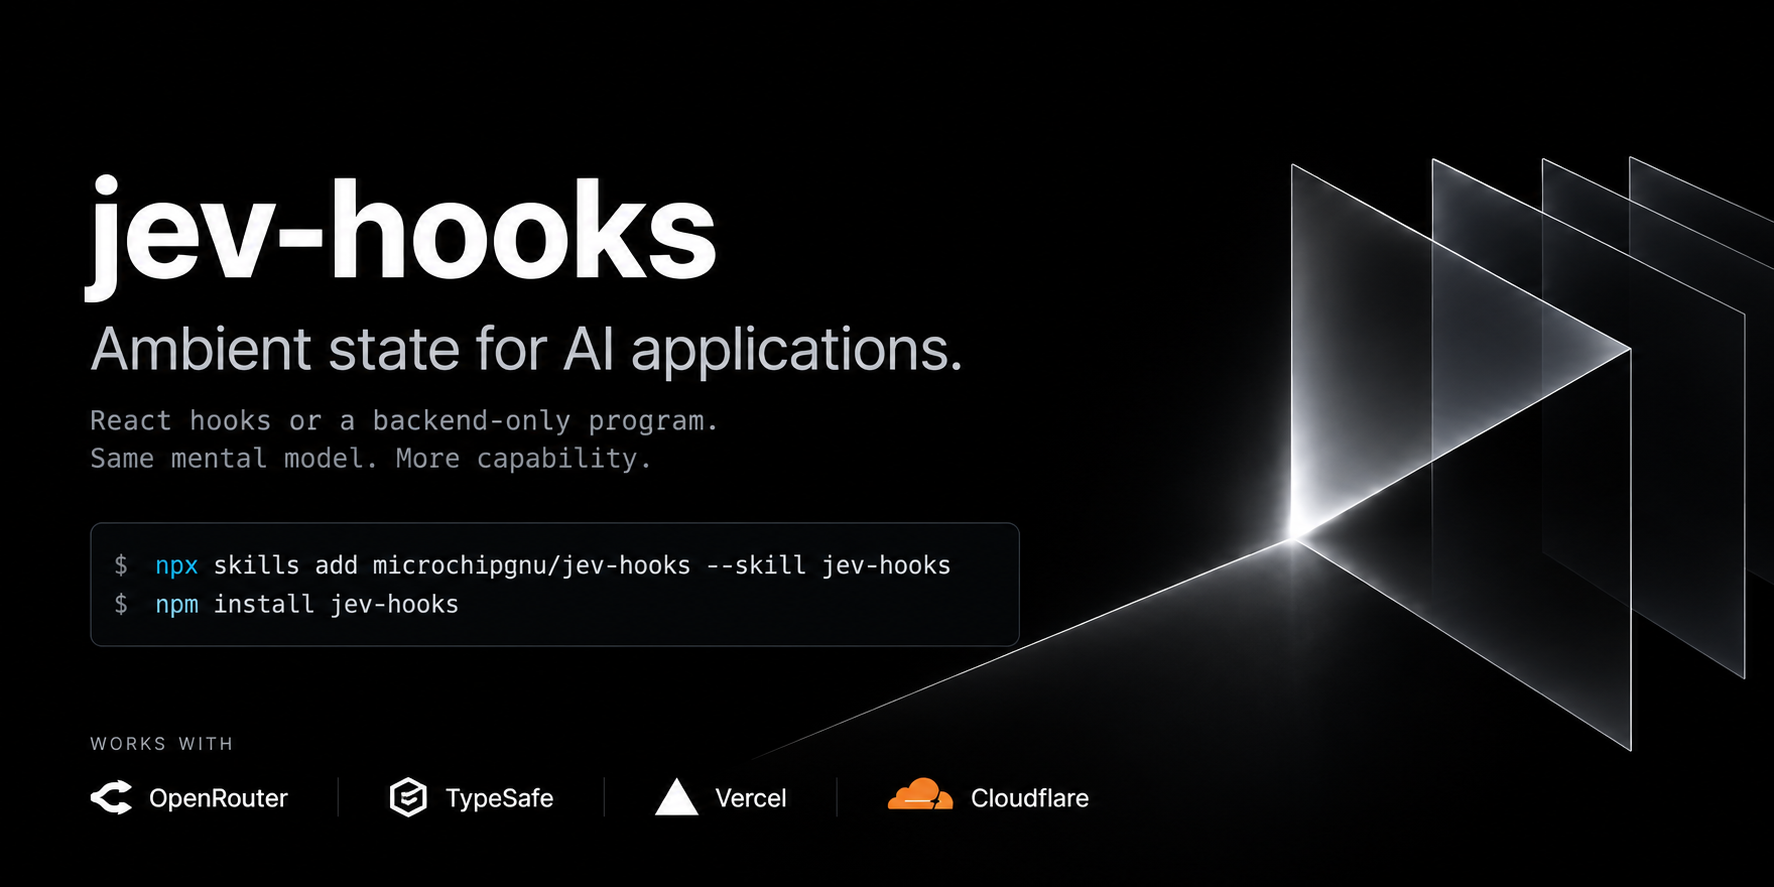
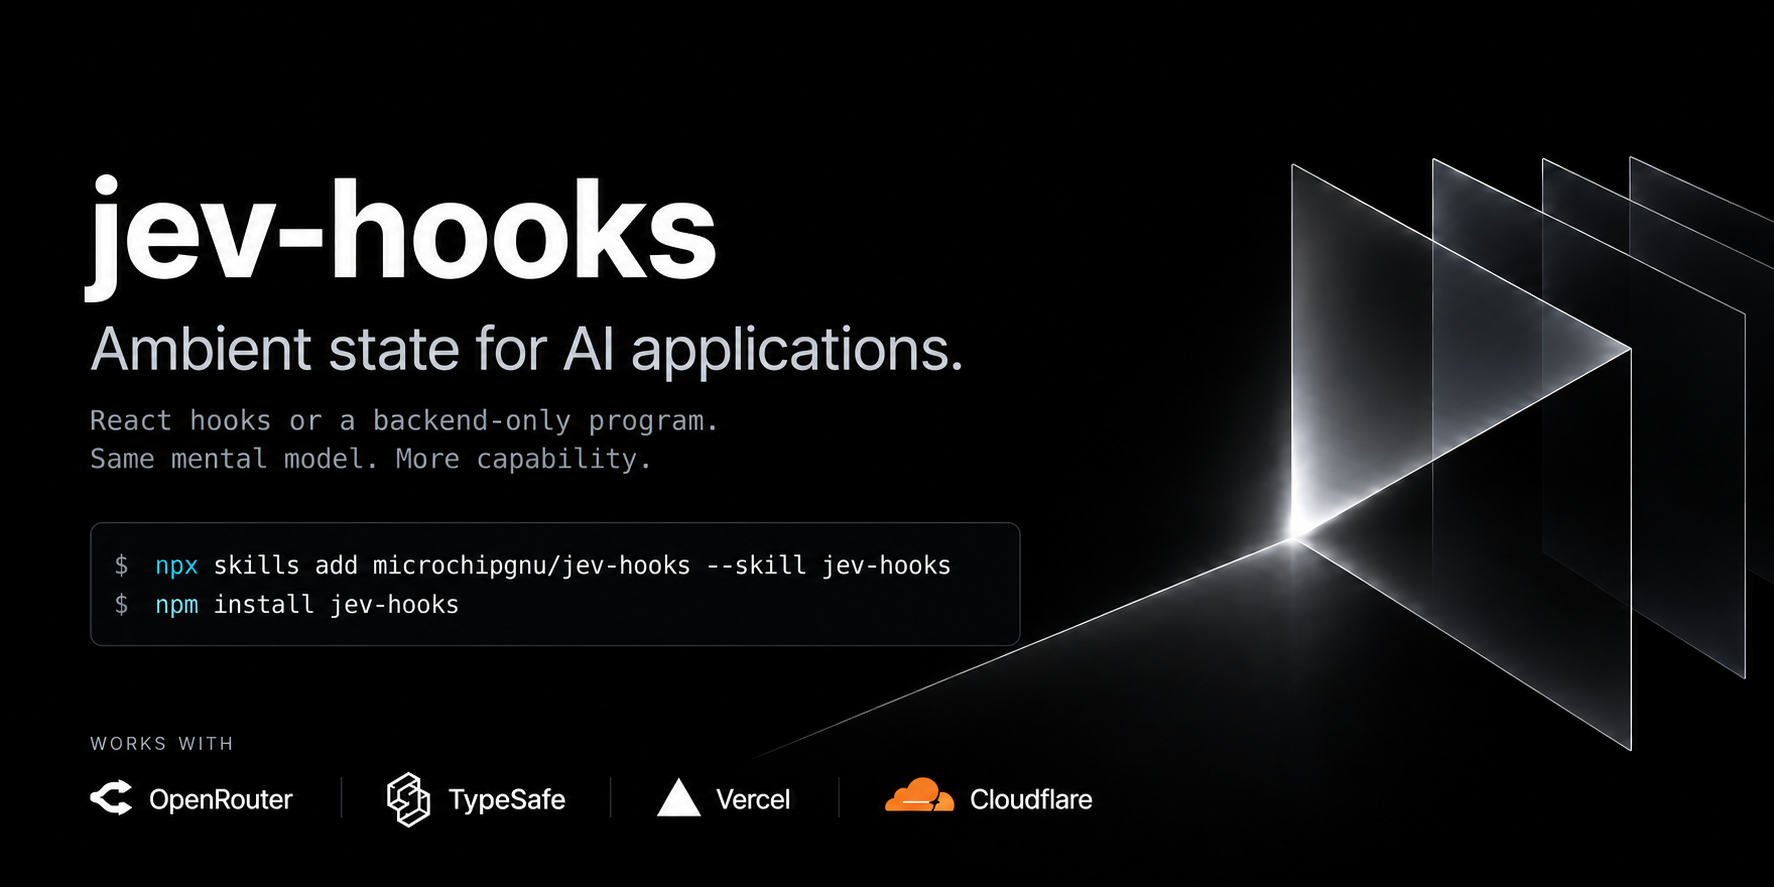
Use final Jev Hooks README header artwork

diff --git a/README.md b/README.md
@@ -1,4 +1,4 @@
-![jev-hooks — Ambient state for AI applications. React hooks or a backend-only program.](https://raw.githubusercontent.com/microchipgnu/jev-hooks/main/.github/assets/jev-hooks-header.png?v=2)
+![jev-hooks — Ambient state for AI applications. React hooks or a backend-only program.](https://raw.githubusercontent.com/microchipgnu/jev-hooks/main/.github/assets/jev-hooks-header.png?v=3)
 
 # jev-hooks
 
